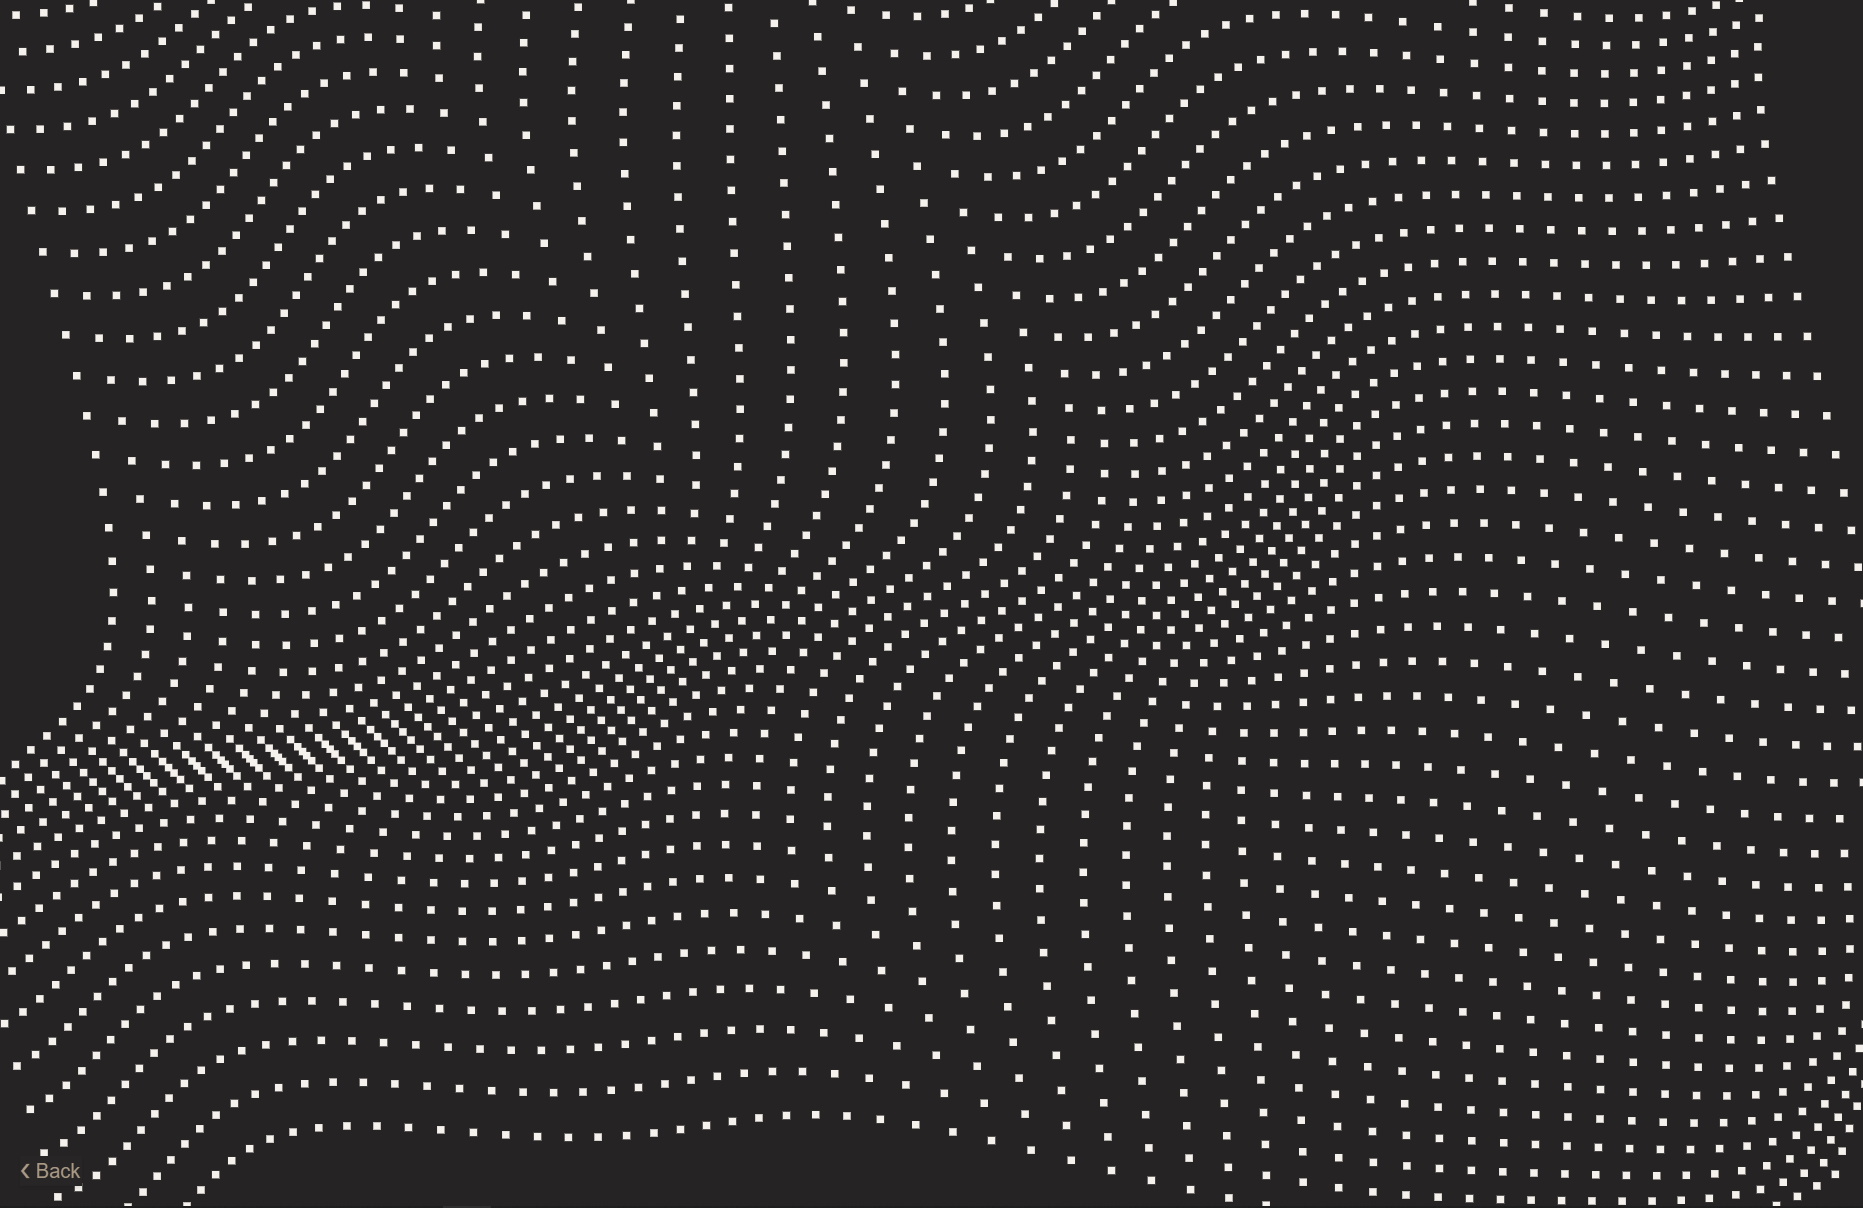
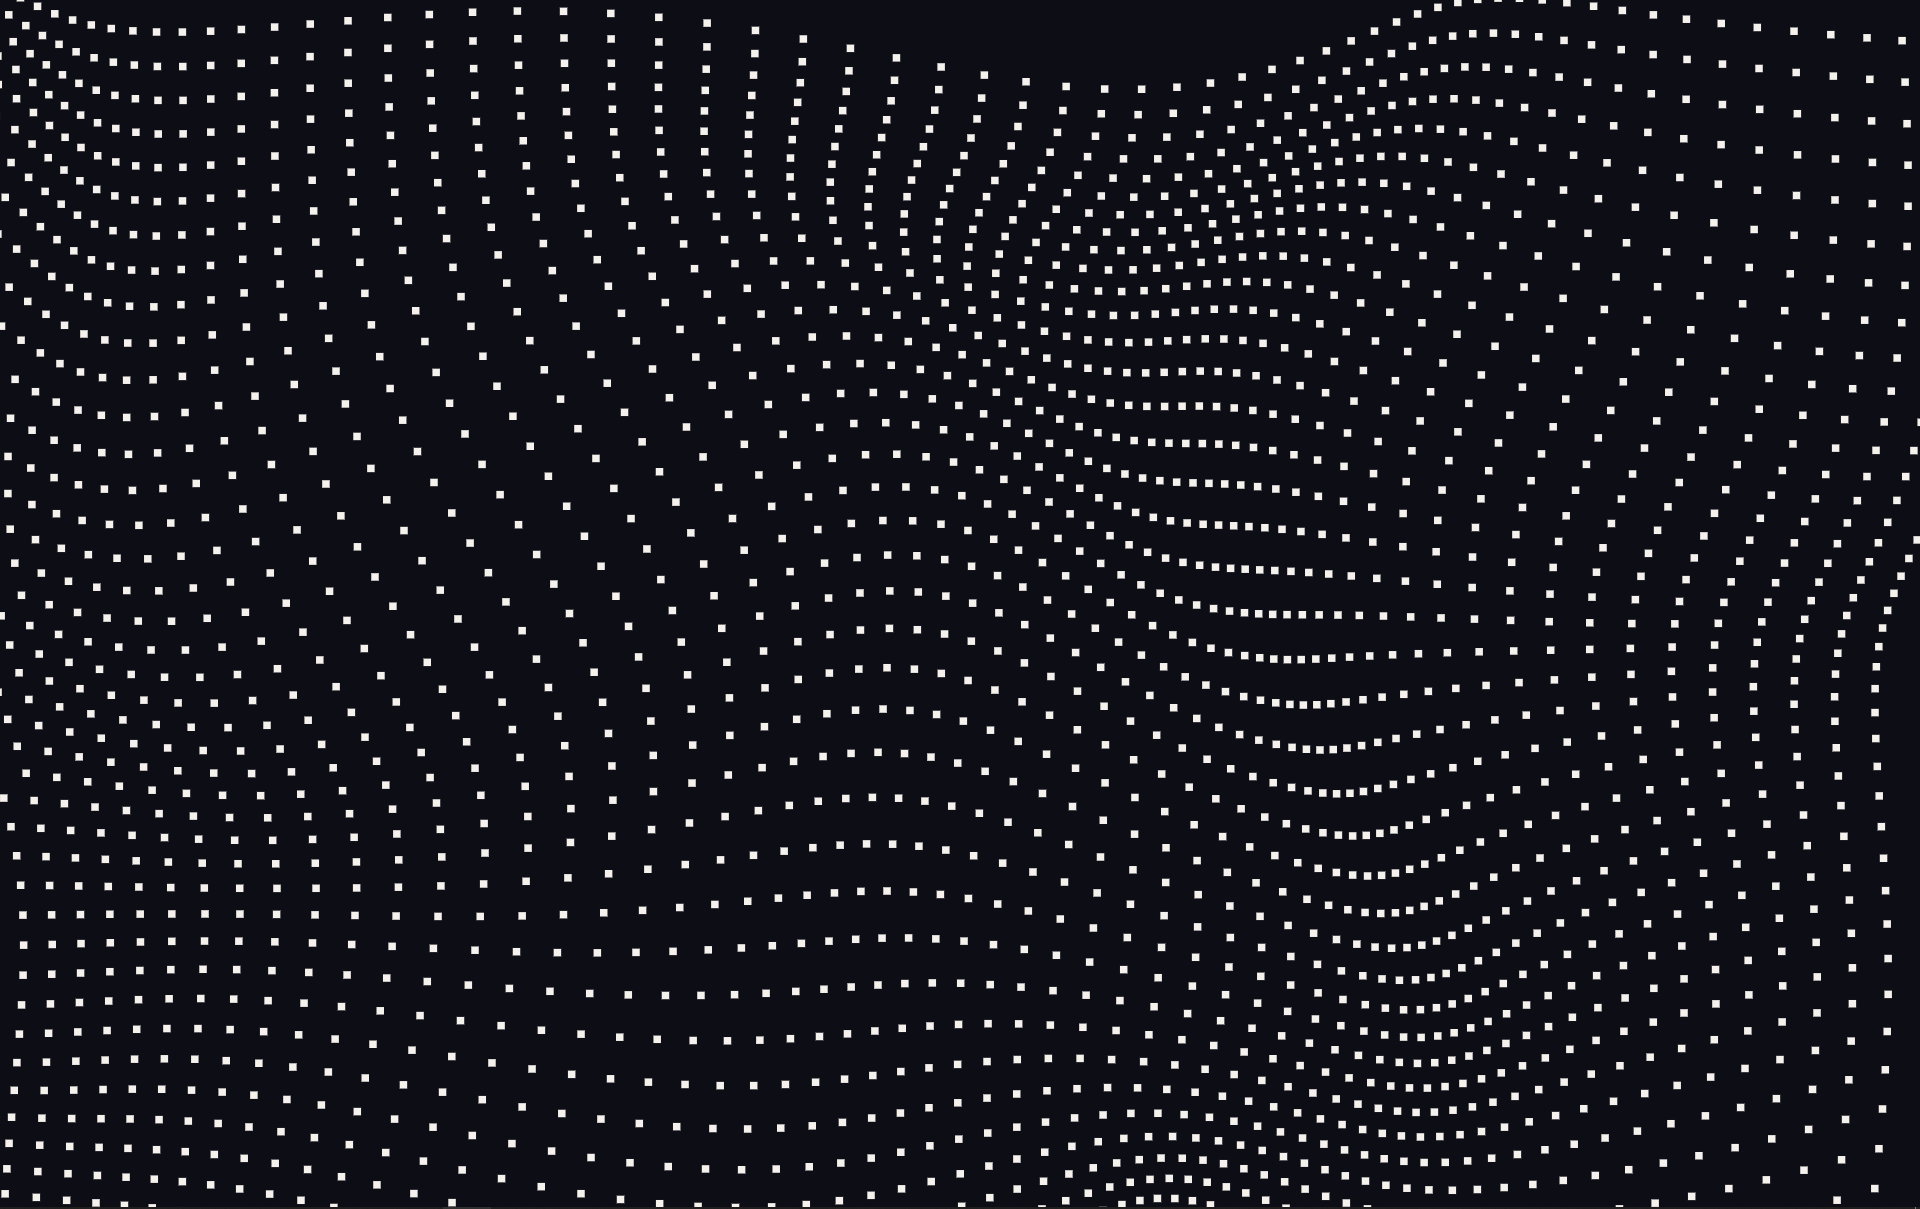
banish the back buttons to the shadow realm (they were ugly)

diff --git a/styles.css b/styles.css
@@ -3,21 +3,17 @@ body {
     font-family: Arial, sans-serif;
     margin: 0;
     padding: 0;
-    background-color: #252323;
-    color: #a99985;
-}
-
-h1, h2, h3, h4 {
-    color: #a99985;
+    background-color: #0d0d16;
+    color: #cadeff;
 }
 
 a {
-    color: #a99985;
+    color: #81aefc;
     text-decoration: none;
 }
 
 hr {
-	border-color: #2E2C2C;
+	border-color: #0d0d16;
 	border-radius: 50%;
 }
 
@@ -25,7 +21,7 @@ hr {
     max-width: 80%;
     margin: 0 auto;
     padding: 20px;
-    background-color: #2E2C2C;
+    background-color: #141422;
     box-shadow: 0 2px 4px rgba(0, 0, 0, 0.1);
 }
 
@@ -35,7 +31,7 @@ hr {
 	left: 20px;
 	display: flex;
 	box-shadow: 0 2px 4px rgba(0, 0, 0, 0.1);
-	background-color: #272525;
+	background-color: #0d0d16;
 }
 
 .backbutton a {
@@ -100,7 +96,7 @@ hr {
 	width: auto;
 	margin-top: -22px;
 	padding: 16px;
-	color: white;
+	color: #e6f4ff;
 	font-weight: bold;
 	font-size: 18px;
 	transition: 0.6s ease;
@@ -115,11 +111,11 @@ hr {
 }
 
 .prev:hover, .next:hover {
-	background-color: rgba(0,0,0,0.8);
+	background-color: rgba(20, 20, 20, 0.7);
 }
 
 .text {
-	color: #f2f2f2;
+	color: #dadef2;
 	font-size: 15px;
 	padding: 8px 12px;
 	position: absolute;
@@ -129,7 +125,7 @@ hr {
 }
 
 .numbertext {
-	color: #f2f2f2;
+	color: #dadef2;
 	font-size: 12px;
 	padding: 8px 12px;
 	position: absolute;
@@ -141,22 +137,12 @@ hr {
 	height: 15px;
 	width: 15px;
 	margin: 8 2px;
-	background-color: #bbb;
+	background-color: #a9b4d5;
 	border-radius: 50%;
 	display: inline-block;
-	transition: background-color 0.6s ease;
+	transition: background-color 0.5s ease;
 }
 
 .active, .dot:hover {
-	background-color: #717171;
-}
-
-.fade {
-	animation-name: fade;
-	animation-duration: 1.5s;
-}
-
-@keyframes fade {
-	from {opacity: .4}
-	to {opacity: 1}
+	background-color: #69748d;
 }

diff --git a/pages/generative-art/noise.html b/pages/generative-art/noise.html
@@ -137,7 +137,7 @@
 			<p>Domain Warp: scale: <span id="dwarpscalevalue"></span></p>
 			<input type="range" min="1" max="200" value="60" step="1" class="slider" id="dwarpscale">
 			
-			<p onclick="usecustomcmap = !usecustomcmap;setCustomColormap(usecustomcmap);document.getElementById('usecustomcmap').innerHTML = usecustomcmap;" id="usecustomcmapbutton" class="pointerCursor">Use Custom Colormap: <span id="usecustomcmap"></span></p>
+			<!-- <p onclick="usecustomcmap = !usecustomcmap;setCustomColormap(usecustomcmap);document.getElementById('usecustomcmap').innerHTML = usecustomcmap;" id="usecustomcmapbutton" class="pointerCursor">Use Custom Colormap: <span id="usecustomcmap"></span></p> -->
 			
 			<p>Custom Colormap: red: <span id="cmapredvalue"></span></p>
 			<input type="range" min="0" max="255" value="255" step="1" class="slider" id="cmapred">
@@ -243,7 +243,7 @@
             height = canvas.height = window.innerHeight;
 
 		var usecustomcmap = false;
-		document.getElementById('usecustomcmap').innerHTML = usecustomcmap;
+		// document.getElementById('usecustomcmap').innerHTML = usecustomcmap;
 		var seed = Math.random()
 		document.getElementById("seedvalue").innerHTML = Math.floor(seed * 65536); 
         noise.seed(seed);
@@ -251,6 +251,9 @@
 		var colormap = BuPu_r;
 		var defaultcolormap = colormap;
 		var rendering = false;
+
+		usecustomcmap = true;
+		setCustomColormap(true);
 
         function render() {
 			if (rendering) {
@@ -375,9 +378,6 @@
 		}
 		
     </script>
-	<div class="backbutton">
-		<a href="../../">&#10094; Back</a>
-	</div>
 </body>
 
 </html>

diff --git a/pages/generative-art/waves.html b/pages/generative-art/waves.html
@@ -52,8 +52,9 @@
 			context.clearRect(0, 0, width, height)
             for (var i = 0; i < points.length; i++) {
 				var p = points[i];
-				var offset = getValue(p.x, p.y) * spacing;
-				context.fillRect(p.x + offset * offsetX - spacing / 4, p.y + offset * offsetY - spacing / 4, spacing / 4, spacing / 4);
+				var xoffset = getValue(p.x * -1, p.y) * spacing;
+				var yoffset = getValue(p.x, p.y * -1) * spacing;
+				context.fillRect(p.x + xoffset * offsetX - spacing / 4, p.y + yoffset * offsetY - spacing / 4, spacing / 4, spacing / 4);
 			}
 			z += 0.01;
             requestAnimationFrame(render);
@@ -67,9 +68,6 @@
 		
         render();
     </script>
-	<div class="backbutton">
-		<a href="../../">&#10094; Back</a>
-	</div>
 </body>
 
 </html>

diff --git a/pages/code/game-engine/example.html b/pages/code/game-engine/example.html
@@ -31,8 +31,5 @@
             var particle_area2 = new ParticleArea(400, 400, 0, 0);
             var particle_emitter1 = new ParticleEmitter(particle_area1, particle_area2, 2, 20, ["test.png"], 20, 20, "epicparticle", 0, 360, "linear", 0, 200)
         </script>
-		<div class="backbutton">
-			<a href="../../../">&#10094; Back</a>
-		</div>
     </body>
 </html>

diff --git a/pages/code/game-engine/main.html b/pages/code/game-engine/main.html
@@ -71,8 +71,5 @@ var particle_emitter1 = new ParticleEmitter(particle_area1, particle_area2, 2, 2
 &lt;script src="https://cdn.jsdelivr.net/gh/davidsaltacc/untitled-small-html-game-engine/gameengine.js"&gt;&lt;/script&gt;
 		</code></pre></h3>
 		</div>
-		<div class="backbutton">
-			<a href="../../../">&#10094; Back</a>
-		</div>
 	</body>
 </html>

diff --git a/pages/minecraft/shadowclient.html b/pages/minecraft/shadowclient.html
@@ -65,8 +65,5 @@
             <p>sc/panic</p>
             <h3>+ Other Things</h3>
 		</div>
-		<div class="backbutton">
-			<a href="../../../">&#10094; Back</a>
-		</div>
 	</body>
 </html>
